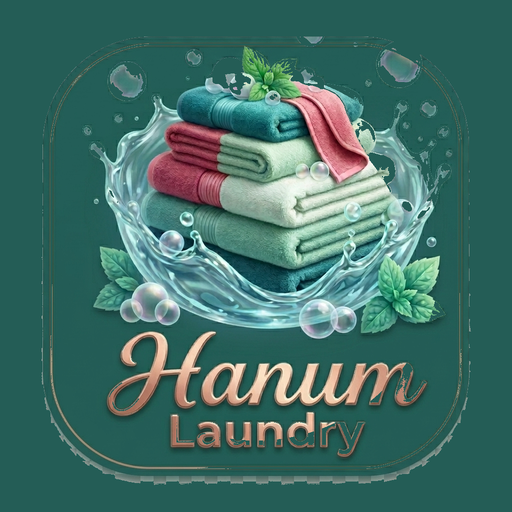
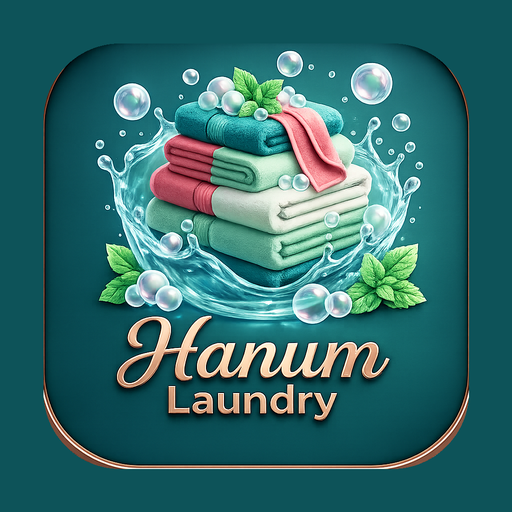
Add files via upload

diff --git a/index.html b/index.html
@@ -101,18 +101,20 @@
   .totline.grand{font-size:21px;font-weight:800;border-top:2px solid var(--ink);margin-top:7px;padding-top:11px}
 
   .ovl{position:fixed;inset:0;background:rgba(2,6,23,.66);display:flex;align-items:center;justify-content:center;padding:16px;z-index:100;animation:ovlIn .18s ease}
-  .modal{background:var(--panel);border-radius:18px;padding:22px;width:100%;max-width:480px;max-height:90vh;overflow:auto;box-shadow:0 30px 70px rgba(0,0,0,.45);transform-origin:center bottom;animation:modalIn .3s cubic-bezier(.2,.9,.25,1.02)}
+  .modal{background:var(--panel);border-radius:18px;padding:22px;width:100%;max-width:480px;max-height:90vh;overflow:auto;box-shadow:0 30px 70px rgba(0,0,0,.45);transform-origin:center bottom}
+  .modal.pop{animation:modalIn .34s cubic-bezier(.2,.92,.28,1.04)}
   @keyframes ovlIn{from{opacity:0}to{opacity:1}}
-  @keyframes modalIn{from{opacity:0;transform:perspective(1100px) rotateX(11deg) translateY(26px) scale(.93)}to{opacity:1;transform:perspective(1100px) rotateX(0) translateY(0) scale(1)}}
+  @keyframes modalIn{from{opacity:0;transform:perspective(1000px) rotateX(14deg) translateY(34px) scale(.9)}to{opacity:1;transform:perspective(1000px) rotateX(0) translateY(0) scale(1)}}
   .r2{display:flex;justify-content:space-between;gap:12px;align-items:baseline}
 
-  #splash{position:fixed;inset:0;z-index:99999;display:flex;align-items:center;justify-content:center;background:linear-gradient(165deg,#173f3a 0%,#245d56 52%,#2f7d6c 100%);transition:opacity .45s ease}
+  #splash{position:fixed;inset:0;z-index:99999;display:flex;align-items:center;justify-content:center;background:#0d5359;transition:opacity .45s ease}
   #splash.off{opacity:0;pointer-events:none}
   .sp-in{text-align:center;color:#fff;padding:24px;animation:spFade .5s ease}
   .sp-logo{width:128px;height:128px;border-radius:30px;box-shadow:0 18px 50px rgba(0,0,0,.45);animation:spPop .6s cubic-bezier(.2,.85,.2,1)}
   .sp-title{font-size:27px;font-weight:800;margin-top:20px;letter-spacing:.3px;text-shadow:0 2px 12px rgba(0,0,0,.4)}
   .sp-tag{font-size:12px;opacity:.92;margin-top:8px;letter-spacing:1.8px;text-transform:uppercase}
-  .sp-spin{width:30px;height:30px;margin:26px auto 0;border:3px solid rgba(255,255,255,.28);border-top-color:#fff;border-radius:50%;animation:spSpin .8s linear infinite}
+  .sp-spin{width:30px;height:30px;margin:0 auto;border:3px solid rgba(255,255,255,.28);border-top-color:#fff;border-radius:50%;animation:spSpin .8s linear infinite}
+  .sp-load{color:rgba(255,255,255,.85);font-size:13px;margin-top:14px;letter-spacing:1px}
   @keyframes spSpin{to{transform:rotate(360deg)}}
   @keyframes spPop{0%{transform:scale(.55);opacity:0}100%{transform:scale(1);opacity:1}}
   @keyframes spFade{from{opacity:0}to{opacity:1}}
@@ -146,10 +148,8 @@
 <!-- ===== SPLASH PEMBUKA ===== -->
 <div id="splash">
   <div class="sp-in">
-    <img src="icon-512.png" class="sp-logo" alt="Hanum Laundry">
-    <div class="sp-title">Hanum Laundry</div>
-    <div class="sp-tag">Bersih · Wangi · Rapi · Terpercaya</div>
     <div class="sp-spin"></div>
+    <div class="sp-load">Memuat…</div>
   </div>
 </div>
 
@@ -169,7 +169,7 @@
 <!-- ===== LOGIN ===== -->
 <div id="login-view" class="gate hide">
   <div class="gate-card">
-    <div class="logo"><div class="mark"><img src="icon-192.png" alt="Hanum" style="width:100%;height:100%;object-fit:cover;border-radius:inherit"></div><div><h1>Hanum Laundry</h1><div class="muted" style="font-size:13px">Sistem Kasir & Manajemen Laundry · <b style="color:#16a34a">v19</b></div></div></div>
+    <div class="logo"><div class="mark"><img src="icon-192.png" alt="Hanum" style="width:100%;height:100%;object-fit:cover;border-radius:inherit"></div><div><h1>Hanum Laundry</h1><div class="muted" style="font-size:13px">Sistem Kasir & Manajemen Laundry · <b style="color:#16a34a">v21</b></div></div></div>
     <div id="login-box">
       <div style="margin:16px 0 4px"><label>Email</label><input id="lg-email" type="email" placeholder="[email redacted]" autocomplete="username" autocapitalize="off"></div>
       <div style="margin:10px 0 4px"><label>Kata sandi</label><input id="lg-pass" type="password" placeholder="••••••••" autocomplete="current-password"></div>
@@ -224,7 +224,7 @@
 const SB_URL_DEFAULT = "https://yiuczvlguotgchfbvaan.supabase.co";
 const SB_KEY_DEFAULT = "sb_publishable_QxDfg9CsDdi2xf7NimN1sw_WloEBALC";
 const SITE_URL = "https://hanum-laundry.vercel.app";
-const APP_VERSION = "v19";
+const APP_VERSION = "v21";
 
 let sb = null;
 const state = { me:null, profile:null, view:'dashboard', cart:[], layanan:[], pelangganCache:[], chartMode:'harian', allOrders:[] };
@@ -673,7 +673,7 @@ async function loadOrders(){
   }</tbody></table>`;
 }
 async function openOrder(id){
-  openModal(modalSkel());
+  openModalLoading();
   const [pr,ir,lr] = await Promise.all([
     sb.from('pesanan').select('*').eq('id',id).single(),
     sb.from('pesanan_item').select('*').eq('pesanan_id',id).order('created_at'),
@@ -736,7 +736,7 @@ async function reprint(id){ const [pr,ir]=await Promise.all([sb.from('pesanan').
 function findVarianByNama(nama){ for(const p of PAKET){ if(p.varian){ for(const v of p.varian){ if((p.nama+' · '+v.label)===nama) return {harga:v.harga,min:v.min,jam:v.jam}; } } } return null; }
 function findKhususByNama(nama){ const p=PAKET.find(x=>x.key==='harga_khusus'); if(p&&p.item){ const it=p.item.find(i=>i.label===nama); if(it) return {min:it.min,max:it.max,jam:p.jam}; } return null; }
 let coCatatan='';
-async function openTimbang(id){ openModal(modalSkel()); const [pr,ir]=await Promise.all([sb.from('pesanan').select('*').eq('id',id).single(), sb.from('pesanan_item').select('*').eq('pesanan_id',id).order('created_at')]); if(!pr.data){ closeModal(); toast('Tidak ditemukan.'); return; } timbangForm(pr.data, ir.data||[]); }
+async function openTimbang(id){ openModalLoading(); const [pr,ir]=await Promise.all([sb.from('pesanan').select('*').eq('id',id).single(), sb.from('pesanan_item').select('*').eq('pesanan_id',id).order('created_at')]); if(!pr.data){ closeModal(); toast('Tidak ditemukan.'); return; } timbangForm(pr.data, ir.data||[]); }
 function timbangForm(p, items){
   const it=(items&&items[0])||{};
   const _kh=findKhususByNama(it.nama_layanan); if(_kh){ timbangFormSatuan(p, it, _kh); return; }
@@ -1226,7 +1226,7 @@ async function submitCheckout(nama, harga){
   coCatatan=''; closeModal(); toast('Pesanan terkirim! Nota: '+(data||'-')); renderPortal();
 }
 async function openPortalOrder(id){
-  openModal(modalSkel());
+  openModalLoading();
   const [pr,ir,lr]=await Promise.all([
     sb.from('pesanan').select('*').eq('id',id).single(),
     sb.from('pesanan_item').select('*').eq('pesanan_id',id).order('created_at'),
@@ -1252,8 +1252,9 @@ async function openPortalOrder(id){
 }
 
 /* ============================================================ MODAL ============================================================ */
-function openModal(html){ $('modal-root').innerHTML=`<div class="ovl" onclick="if(event.target===this)closeModal()"><div class="modal"><div id="modal-body">${html}</div><button class="btn sec sm" style="margin-top:12px" onclick="closeModal()">Tutup</button></div></div>`; }
-function modalBody(html){ const b=$('modal-body'); if(b) b.innerHTML=html; }
+function openModal(html){ $('modal-root').innerHTML=`<div class="ovl" onclick="if(event.target===this)closeModal()"><div class="modal pop"><div id="modal-body">${html}</div><button class="btn sec sm" style="margin-top:12px" onclick="closeModal()">Tutup</button></div></div>`; }
+function openModalLoading(){ $('modal-root').innerHTML=`<div class="ovl" onclick="if(event.target===this)closeModal()"><div class="modal"><div id="modal-body">${modalSkel()}</div><button class="btn sec sm" style="margin-top:12px" onclick="closeModal()">Tutup</button></div></div>`; }
+function modalBody(html){ const b=$('modal-body'); if(b){ b.innerHTML=html; const m=b.parentElement; if(m){ m.classList.remove('pop'); void m.offsetWidth; m.classList.add('pop'); } } }
 function modalSkel(){ return `<div class="skel" style="height:26px;width:55%;margin-bottom:14px"></div><div class="skel" style="height:54px;margin-bottom:10px"></div><div class="skel" style="height:96px;margin-bottom:10px"></div><div class="skel" style="height:40px;width:70%"></div>`; }
 function closeModal(){ $('modal-root').innerHTML=''; }
 function hideSplash(){ const s=$('splash'); if(s&&!s.classList.contains('off')){ s.classList.add('off'); setTimeout(()=>{ if(s.parentNode) s.style.display='none'; },500); } }